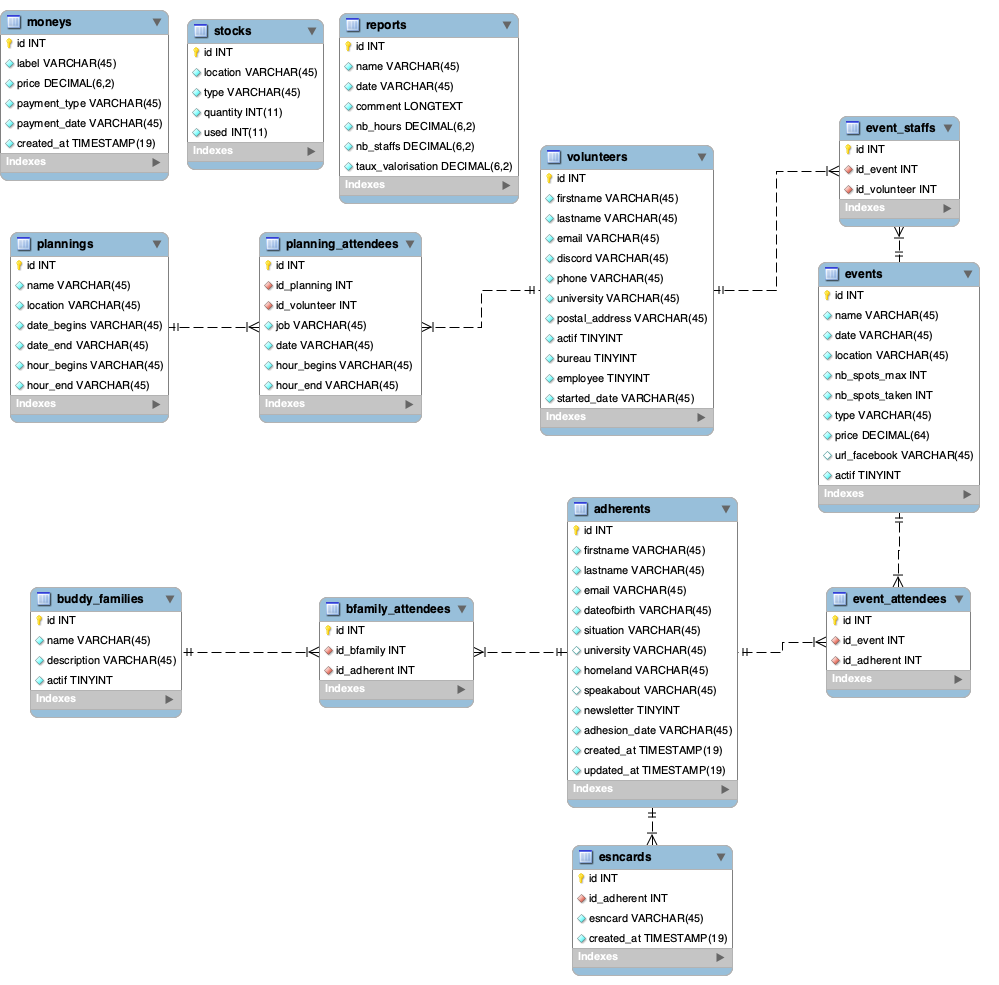
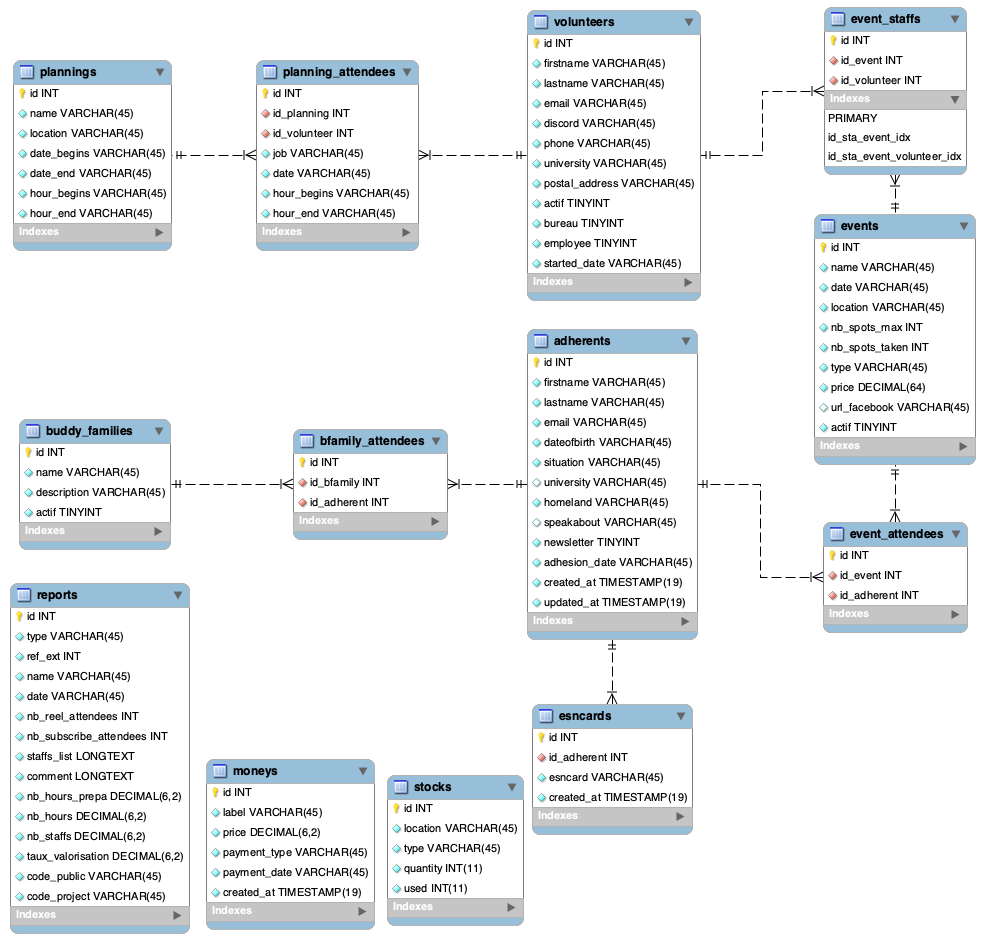
edit after meeting with Yoann

diff --git a/modules/report/model.go b/modules/report/model.go
@@ -3,8 +3,14 @@ package report
 // swagger:model Report
 type Report struct {
 	// Id of the report
-	// in: int64
+	// in: int
 	Id int `json:"id"`
+	// Type of the report
+	// in: string
+	Type string `json:"type"`
+	// External reference of the report
+	// in: int
+	RefExt int `json:"ref_ext"`
 	// Name of the report
 	// in: string
 	Name string `json:"name"`
@@ -14,22 +20,40 @@ type Report struct {
 	// Comment of the report
 	// in: string
 	Comment string `json:"comment"`
-	// Number of hours of the event/planning/custom
+	// Number reel of attendees of the event/planning/custom
+	// in: int64
+	NbReelAtt int `json:"nb_reel_attendees"`
+	// Number subscribes of attendees of the event/planning/custom
+	// in: int
+	NbSubsAtt int `json:"nb_subscribe_attendees"`
+	// List of staffs of the event/planning/custom
 	// in: string
+	StaffsList string `json:"staffs_list"`
+	// Number of hours of preparation
+	// in: float
+	NbHoursPrepa float64 `json:"nb_hours_prepa"`
+	// Number of hours of the event/planning/custom
+	// in: float
 	NbHours float64 `json:"nb_hours"`
 	// Number of staffs of the event/planning/custom
-	// in: string
+	// in: float
 	NbStaffs float64 `json:"nb_staffs"`
 	// Taux Valorisation of the event/planning/custom
-	// in: string
+	// in: float
 	TauxValorisation float64 `json:"taux_valorisation"`
+	// Code public of the event/planning/custom
+	// in: string
+	CodePublic string `json:"code_public"`
+	// Code projet of the event/planning/custom
+	// in: string
+	CodeProject string `json:"code_project"`
 }
 
 type Reports []Report
 
 func NewReport(rpt *Report) {
-	stmt, _ := TheDb().Prepare("INSERT INTO reports (name, date, comment, nb_hours, nb_staffs, taux_valorisation) VALUES (?,?,?,?,?,?);")
-	_, err := stmt.Exec(rpt.Name, rpt.Date, rpt.Comment, rpt.NbHours, rpt.NbStaffs, rpt.TauxValorisation)
+	stmt, _ := TheDb().Prepare("INSERT INTO reports (type, ref_ext, name, date, comment, nb_reel_attendees, nb_subscribe_attendees, staffs_list, nb_hours_prepa, nb_hours, nb_staffs, taux_valorisation, code_public, code_project) VALUES (?,?,?,?,?,?,?,?,?,?,?,?,?,?);")
+	_, err := stmt.Exec(rpt.Type, rpt.RefExt, rpt.Name, rpt.Date, rpt.Comment, rpt.NbReelAtt, rpt.NbSubsAtt, rpt.StaffsList, rpt.NbHoursPrepa, rpt.NbHours, rpt.NbStaffs, rpt.TauxValorisation, rpt.CodePublic, rpt.CodeProject)
 	if err != nil {
 		TheLogger().LogError("report", "can't create new report.", err)
 	}
@@ -39,7 +63,7 @@ func FindReportById(id int) *Report {
 	var rpt Report
 
 	row := TheDb().QueryRow("SELECT * FROM reports WHERE id = ?;", id)
-	err := row.Scan(&rpt.Id, &rpt.Name, &rpt.Date, &rpt.Comment, &rpt.NbHours, &rpt.NbStaffs, &rpt.TauxValorisation)
+	err := row.Scan(&rpt.Id, &rpt.Type, &rpt.RefExt, &rpt.Name, &rpt.Date, &rpt.Comment, &rpt.NbReelAtt, &rpt.NbSubsAtt, &rpt.StaffsList, &rpt.NbHoursPrepa, &rpt.NbHours, &rpt.NbStaffs, &rpt.TauxValorisation, &rpt.CodePublic, &rpt.CodeProject)
 
 	if err != nil {
 		TheLogger().LogWarning("report", "report id not found.", err)
@@ -63,7 +87,7 @@ func AllReports() *Reports {
 	for rows.Next() {
 		var rpt Report
 
-		err := rows.Scan(&rpt.Id, &rpt.Name, &rpt.Date, &rpt.Comment, &rpt.NbHours, &rpt.NbStaffs, &rpt.TauxValorisation)
+		err := rows.Scan(&rpt.Id, &rpt.Type, &rpt.RefExt, &rpt.Name, &rpt.Date, &rpt.Comment, &rpt.NbReelAtt, &rpt.NbSubsAtt, &rpt.StaffsList, &rpt.NbHoursPrepa, &rpt.NbHours, &rpt.NbStaffs, &rpt.TauxValorisation, &rpt.CodePublic, &rpt.CodeProject)
 
 		if err != nil {
 			TheLogger().LogError("report", "reports not found.", err)
@@ -76,13 +100,13 @@ func AllReports() *Reports {
 }
 
 func UpdateReport(rpt *Report) {
-	stmt, err := TheDb().Prepare("UPDATE reports SET name=?, date=?, comment=?, nb_hours=?, nb_staffs=?, taux_valorisation=? WHERE id=?;")
+	stmt, err := TheDb().Prepare("UPDATE reports SET type=?, ref_ext=?, name=?, date=?, comment=?, nb_reel_attendees=?, nb_subscribe_attendees=?, staffs_list=?, nb_hours_prepa=?, nb_hours=?, nb_staffs=?, taux_valorisation=?, code_public=?, code_project=? WHERE id=?;")
 
 	if err != nil {
 		TheLogger().LogError("report", "problem with the db.", err)
 	}
 
-	_, err = stmt.Exec(rpt.Name, rpt.Date, rpt.Comment, rpt.NbHours, rpt.NbStaffs, rpt.TauxValorisation, rpt.Id)
+	_, err = stmt.Exec(rpt.Type, rpt.RefExt, rpt.Name, rpt.Date, rpt.Comment, rpt.NbReelAtt, rpt.NbSubsAtt, rpt.StaffsList, rpt.NbHoursPrepa, rpt.NbHours, rpt.NbStaffs, rpt.TauxValorisation, rpt.CodePublic, rpt.CodeProject, rpt.Id)
 
 	if err != nil {
 		TheLogger().LogError("report", "report can't be updated.", err)

diff --git a/modules/report/model_test.go b/modules/report/model_test.go
@@ -6,13 +6,13 @@ import (
 )
 
 func setUpModel() {
-	NewReport(&Report{Name: "Report League", Date: "2016-04-14", Comment: "It was amazing !", NbHours: 12, NbStaffs: 10, TauxValorisation: 20})
-	NewReport(&Report{Name: "Report Reu", Date: "2020-04-14", Comment: "It was amazing !", NbHours: 12, NbStaffs: 20, TauxValorisation: 14})
-	NewReport(&Report{Name: "Report NEM", Date: "2021-04-14", Comment: "It was amazing !", NbHours: 18, NbStaffs: 10, TauxValorisation: 18})
+	NewReport(&Report{Type: "event", RefExt: 1, Name: "Report League", Date: "2016-04-14", Comment: "It was amazing !", NbReelAtt: 20, NbSubsAtt: 30, StaffsList: "Toto Titi, Tata Titi", NbHoursPrepa: 4, NbHours: 12, NbStaffs: 10, TauxValorisation: 20, CodePublic: "TST", CodeProject: "ALL"})
+	NewReport(&Report{Type: "custom", RefExt: 0, Name: "Report Reu", Date: "2020-04-14", Comment: "It was amazing !", NbReelAtt: 2, NbSubsAtt: 0, StaffsList: "Toto Titi, Tata Titi", NbHoursPrepa: 2, NbHours: 12, NbStaffs: 1, TauxValorisation: 14, CodePublic: "TST", CodeProject: "ALL"})
+	NewReport(&Report{Type: "event", RefExt: 2, Name: "Report NEM", Date: "2021-04-14", Comment: "It was amazing !", NbReelAtt: 35, NbSubsAtt: 30, StaffsList: "Toto Titi, Tata Titi", NbHoursPrepa: 4, NbHours: 18, NbStaffs: 10, TauxValorisation: 18, CodePublic: "TST", CodeProject: "ALL"})
 }
 
 func TestNewReport(t *testing.T) {
-	NewReport(&Report{Name: "Report BeerPong", Date: "2021-04-14", Comment: "It was amazing !", NbHours: 18, NbStaffs: 10, TauxValorisation: 20})
+	NewReport(&Report{Type: "event", RefExt: 3, Name: "Report BeerPong", Date: "2021-04-14", Comment: "It was amazing !", NbReelAtt: 35, NbSubsAtt: 30, StaffsList: "Toto Titi, Tata Titi", NbHoursPrepa: 4, NbHours: 18, NbStaffs: 10, TauxValorisation: 20, CodePublic: "TST", CodeProject: "ALL"})
 }
 
 func TestFindReportById(t *testing.T) {
@@ -32,7 +32,7 @@ func TestAllReports(t *testing.T) {
 }
 
 func TestUpdateReport(t *testing.T) {
-	rpt := Report{Id: 3, Name: "Report NEEEEM", Date: "2021-04-14", Comment: "It was amazing !", NbHours: 18, NbStaffs: 10, TauxValorisation: 18}
+	rpt := Report{Id: 3, Type: "planning", RefExt: 1, Name: "Report NEEEEM", Date: "2021-04-14", Comment: "It was amazing !", NbReelAtt: 35, NbSubsAtt: 30, StaffsList: "Toto Titi, Tata Titi", NbHoursPrepa: 4, NbHours: 18, NbStaffs: 10, TauxValorisation: 18, CodePublic: "TST", CodeProject: "ALL"}
 	UpdateReport(&rpt)
 
 	rpt_3 := FindReportById(3)

diff --git a/modules/report/controller_test.go b/modules/report/controller_test.go
@@ -9,9 +9,9 @@ import (
 )
 
 func setUpController() {
-	NewReport(&Report{Name: "Report League", Date: "2016-04-14", Comment: "It was amazing !", NbHours: 12, NbStaffs: 10, TauxValorisation: 20})
-	NewReport(&Report{Name: "Report Reu", Date: "2020-04-14", Comment: "It was amazing !", NbHours: 12, NbStaffs: 20, TauxValorisation: 14})
-	NewReport(&Report{Name: "Report NEM", Date: "2021-04-14", Comment: "It was amazing !", NbHours: 18, NbStaffs: 10, TauxValorisation: 18})
+	NewReport(&Report{Type: "event", RefExt: 1, Name: "Report League", Date: "2016-04-14", Comment: "It was amazing !", NbReelAtt: 20, NbSubsAtt: 30, StaffsList: "Toto Titi, Tata Titi", NbHoursPrepa: 4, NbHours: 12, NbStaffs: 10, TauxValorisation: 20, CodePublic: "TST", CodeProject: "ALL"})
+	NewReport(&Report{Type: "custom", RefExt: 0, Name: "Report Reu", Date: "2020-04-14", Comment: "It was amazing !", NbReelAtt: 2, NbSubsAtt: 0, StaffsList: "Toto Titi, Tata Titi", NbHoursPrepa: 2, NbHours: 12, NbStaffs: 1, TauxValorisation: 14, CodePublic: "TST", CodeProject: "ALL"})
+	NewReport(&Report{Type: "event", RefExt: 2, Name: "Report NEM", Date: "2021-04-14", Comment: "It was amazing !", NbReelAtt: 35, NbSubsAtt: 30, StaffsList: "Toto Titi, Tata Titi", NbHoursPrepa: 4, NbHours: 18, NbStaffs: 10, TauxValorisation: 18, CodePublic: "TST", CodeProject: "ALL"})
 }
 
 func TestReportsIndex(t *testing.T) {
@@ -28,7 +28,7 @@ func TestReportsIndex(t *testing.T) {
 }
 
 func TestReportsCreate(t *testing.T) {
-	var jsonStr = []byte(`{"name": "Report Meeting", "date": "2022-04-14", "comment": "Nice", "nb_hours": 2, "nb_staffs": 1, "taux_valorisation": 18}`)
+	var jsonStr = []byte(`{"type": "planning", "ref_ext": 4, "name": "Report Meeting", "date": "2022-04-14", "comment": "Nice", "nb_reel_attendees": 12, "nb_subscribe_attendees": 12, "staffs_list": "Toto Titi", "nb_hours_prepa": 2, "nb_hours": 2, "nb_staffs": 1, "taux_valorisation": 18, "code_public": "TST", "code_project": "ALL"}`)
 
 	req := httptest.NewRequest("POST", "/reports", bytes.NewBuffer(jsonStr))
 	w := httptest.NewRecorder()

diff --git a/modules/report/specimen.go b/modules/report/specimen.go
@@ -1,6 +1,8 @@
 package report
 
 func Specimen() {
-	NewReport(&Report{Name: "Report League Indigo", Date: "2016-04-14", Comment: "It was amazing !", NbHours: 20, NbStaffs: 10, TauxValorisation: 14})
-	NewReport(&Report{Name: "Report Masters", Date: "2020-04-14", Comment: "FIIIIIRE !", NbHours: 30, NbStaffs: 20, TauxValorisation: 18})
+	NewReport(&Report{Type: "event", RefExt: 1, Name: "Report League Indigo", Date: "2016-04-14", Comment: "It was amazing !", NbReelAtt: 25, NbSubsAtt: 30, StaffsList: "Cynthia Shirona, Peter Wataru", NbHoursPrepa: 8, NbHours: 20, NbStaffs: 2, TauxValorisation: 14, CodePublic: "CHAMP", CodeProject: "PKM"})
+	NewReport(&Report{Type: "event", RefExt: 2, Name: "Report Masters", Date: "2020-04-14", Comment: "FIIIIIRE !", NbReelAtt: 25, NbSubsAtt: 30, StaffsList: "Cynthia Shirona", NbHoursPrepa: 8, NbHours: 30, NbStaffs: 1, TauxValorisation: 18, CodePublic: "MAST", CodeProject: "PKM"})
+	NewReport(&Report{Type: "planning", RefExt: 1, Name: "Report Permanence", Date: "2020-04-14", Comment: "Not lot of people !", NbReelAtt: 8, NbSubsAtt: 0, StaffsList: "Cynthia Shirona", NbHoursPrepa: 0, NbHours: 8, NbStaffs: 1, TauxValorisation: 18, CodePublic: "CHAMP", CodeProject: "PKM"})
+	NewReport(&Report{Type: "custom", RefExt: 0, Name: "Report Meeting with Mayor", Date: "2020-04-14", Comment: "Good meeting !", NbReelAtt: 2, NbSubsAtt: 2, StaffsList: "Cynthia Shirona", NbHoursPrepa: 1, NbHours: 2, NbStaffs: 1, TauxValorisation: 18, CodePublic: "CHAMP", CodeProject: "PKM"})
 }

diff --git a/modules/report/database.go b/modules/report/database.go
@@ -4,12 +4,20 @@ func CreateReportsTable() {
 	_, err := TheDb().Exec(`
 		CREATE TABLE IF NOT EXISTS reports (
 			id INT NOT NULL AUTO_INCREMENT,
+			type VARCHAR(45) NOT NULL,
+			ref_ext INT NOT NULL,
 			name VARCHAR(45) NOT NULL,
 			date VARCHAR(45) NOT NULL,
 			comment LONGTEXT NOT NULL,
+			nb_reel_attendees INT NOT NULL,
+			nb_subscribe_attendees INT NOT NULL,
+			staffs_list LONGTEXT NOT NULL,
+			nb_hours_prepa DECIMAL(6,2) NOT NULL,
 			nb_hours DECIMAL(6,2) NOT NULL,
 			nb_staffs DECIMAL(6,2) NOT NULL,
 			taux_valorisation DECIMAL(6,2) NOT NULL,
+			code_public VARCHAR(45) NOT NULL,
+			code_project VARCHAR(45) NOT NULL,
 			PRIMARY KEY (id),
 			UNIQUE INDEX id_UNIQUE (id ASC)
 		);

diff --git a/modules/report/README.md b/modules/report/README.md
@@ -6,13 +6,21 @@ title: Module Report
 
 **Object description**
 
-- Id                int     `json:"id"`                 - Id of the report
-- Name              string  `json:"name"`               - Name of the report
-- Date              string  `json:"date"`               - Date of the event/planning/custom
-- Comment           string  `json:"comment"`            - Comment of the report
-- NbHours           string  `json:"nb_hours"`           - Number of hours of the event/planning/custom
-- NbStaffs          string  `json:"nb_staffs"`          - Number of staffs of the event/planning/custom
-- TauxValorisation  string  `json:"taux_valorisation"`  - Taux Valorisation of the event/planning/custom
+- Id                int     `json:"id"`                     - Id of the report
+- Type              string  `json:"type"`                   - Type of the report
+- RefExt            int     `json:"ref_ext"`                - External reference of the report
+- Name              string  `json:"name"`                   - Name of the report
+- Date              string  `json:"date"`                   - Date of the event/planning/custom
+- Comment           string  `json:"comment"`                - Comment of the report
+- NbReelAtt         int     `json:"nb_reel_attendees"`      - Number reel of attendees of the event/planning/custom 
+- NbSubsAtt         int     `json:"nb_subscribe_attendees"` - Number subscribes of attendees of the event/planning/custom
+- StaffsList        string  `json:"staffs_list"`            - List of staffs of the event/planning/custom
+- NbHoursPrepa      float   `json:"nb_hours_prepa"`         - Number of hours of preparation
+- NbHours           string  `json:"nb_hours"`               - Number of hours of the event/planning/custom
+- NbStaffs          string  `json:"nb_staffs"`              - Number of staffs of the event/planning/custom
+- TauxValorisation  string  `json:"taux_valorisation"`      - Taux Valorisation of the event/planning/custom
+- CodePublic        string  `json:"code_public"`            - Public code of the report
+- CodeProject       string  `json:"code_project"`           - Project code of the report
 
 The parameters `id` is calculated automatically.
 
@@ -46,12 +54,20 @@ curl -X POST "https://${MYSERVER}/${SECURE}/reports" \
     -H "X-Session-Token: ${MYTOKEN}" \
     -H "Content-Type: application/json" \
     -d '{
+        "type": "event",
+        "ref_ext": 1,
         "name": "Report NEM",
         "date": "2021-04-14",
-        "comment": "It was amazing !"
+        "comment": "It was amazing !",
+        "nb_reel_attendees": 20,
+        "nb_subscribe_attendees": 20,
+        "staffs_list": "John Smith, Toto titi, Ash Ketchum",
+        "nb_hours_prepa": 4,
         "nb_hours": 12,
-        "nb_staffs": 10,
-        "taux_valorisation": 18
+        "nb_staffs": 3,
+        "taux_valorisation": 18,
+        "code_public": "ALL",
+        "code_project": "PKM"
     }'
 ```
 
@@ -67,12 +83,20 @@ curl -X POST "https://${MYSERVER}/${SECURE}/reports/2" \
     -H "X-Session-Token: ${MYTOKEN}" \
     -H "Content-Type: application/json" \
     -d '{
+        "type": "event",
+        "ref_ext": 1,
         "name": "Report NEM",
         "date": "2021-04-14",
-        "comment": "It was amaziiiiing !"
+        "comment": "It was amaziiiiing !",
+        "nb_reel_attendees": 20,
+        "nb_subscribe_attendees": 20,
+        "staffs_list": "John Smith, Toto titi, Ash Ketchum",
+        "nb_hours_prepa": 4,
         "nb_hours": 12,
         "nb_staffs": 10,
-        "taux_valorisation": 14
+        "taux_valorisation": 14,
+        "code_public": "ALL",
+        "code_project": "PKM"
     }'
 ```
 
